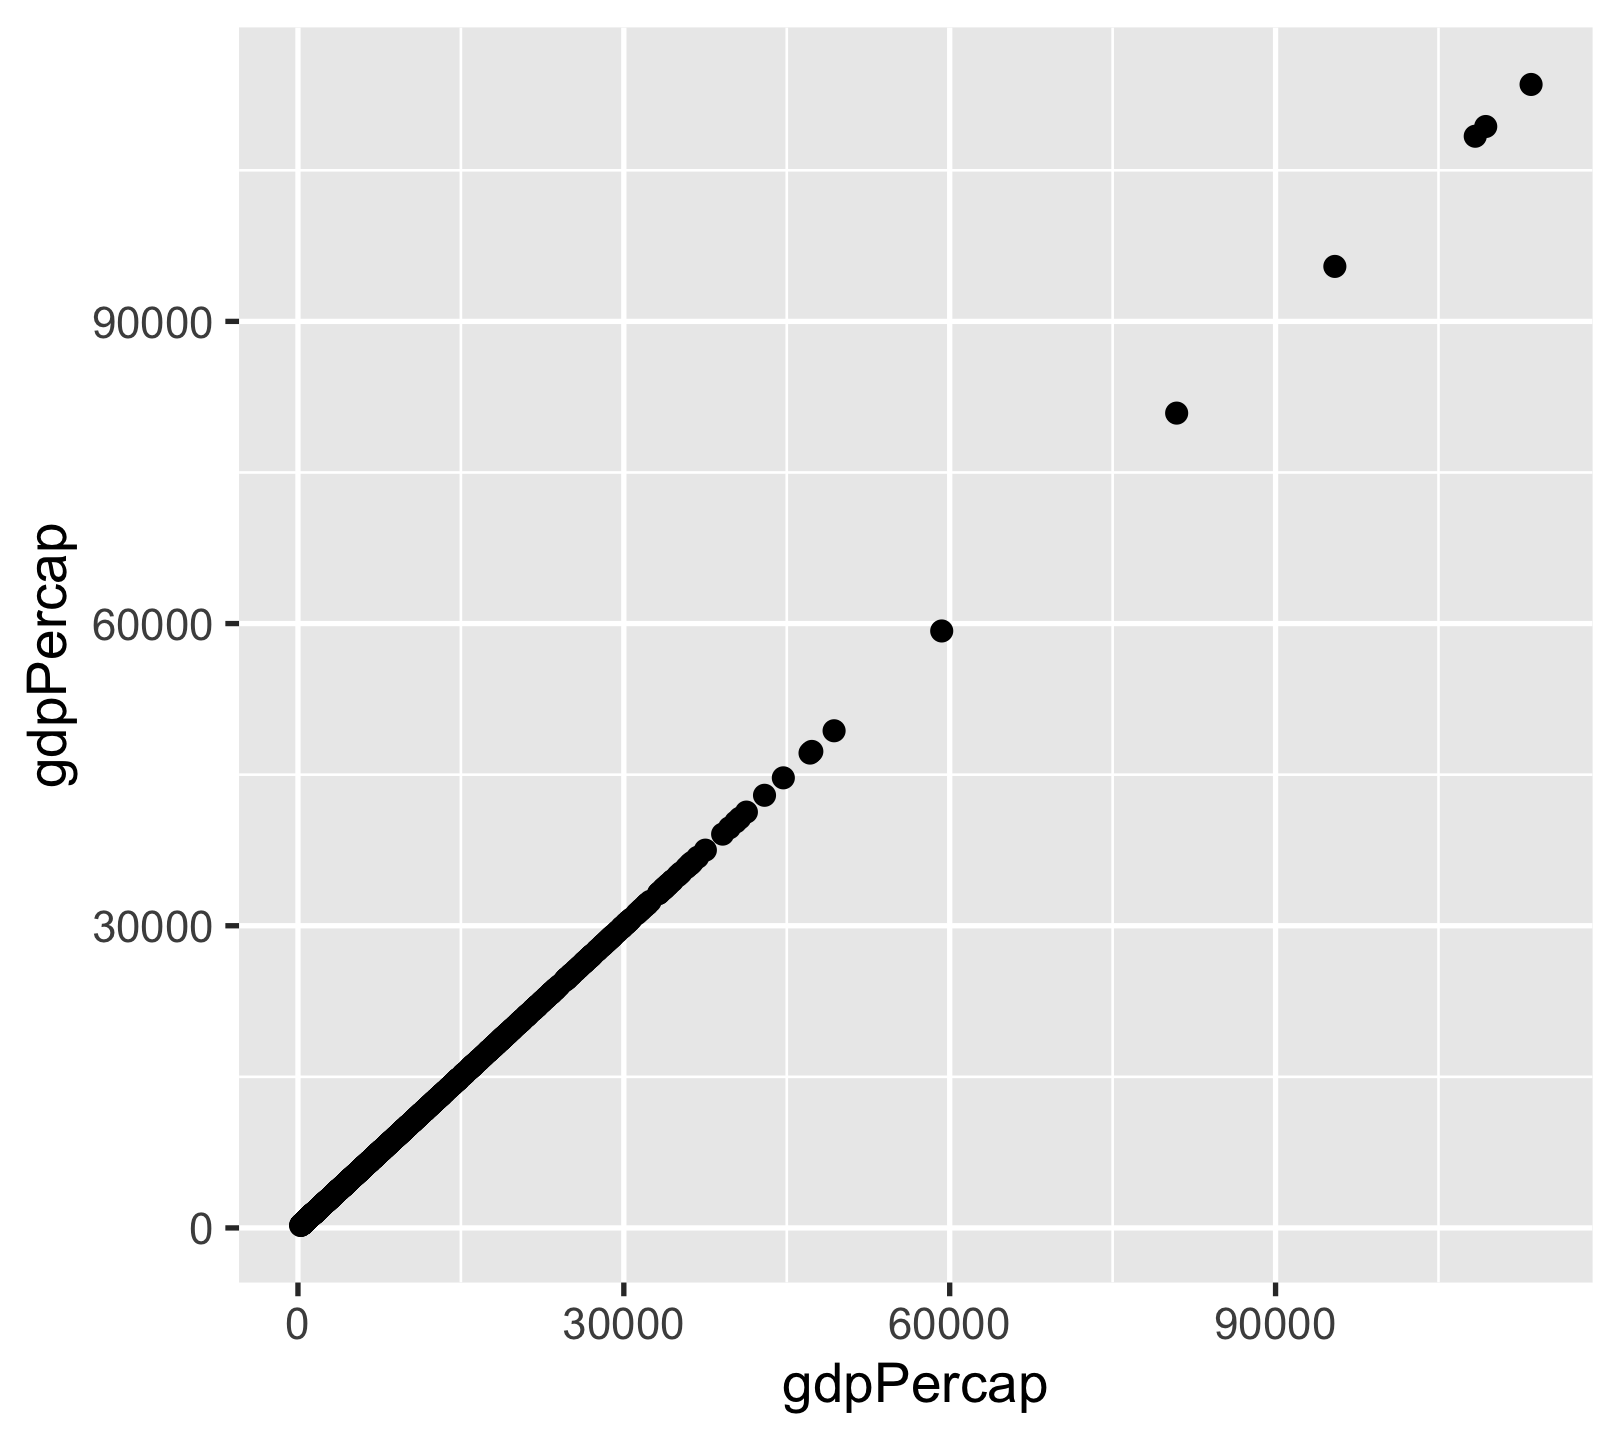
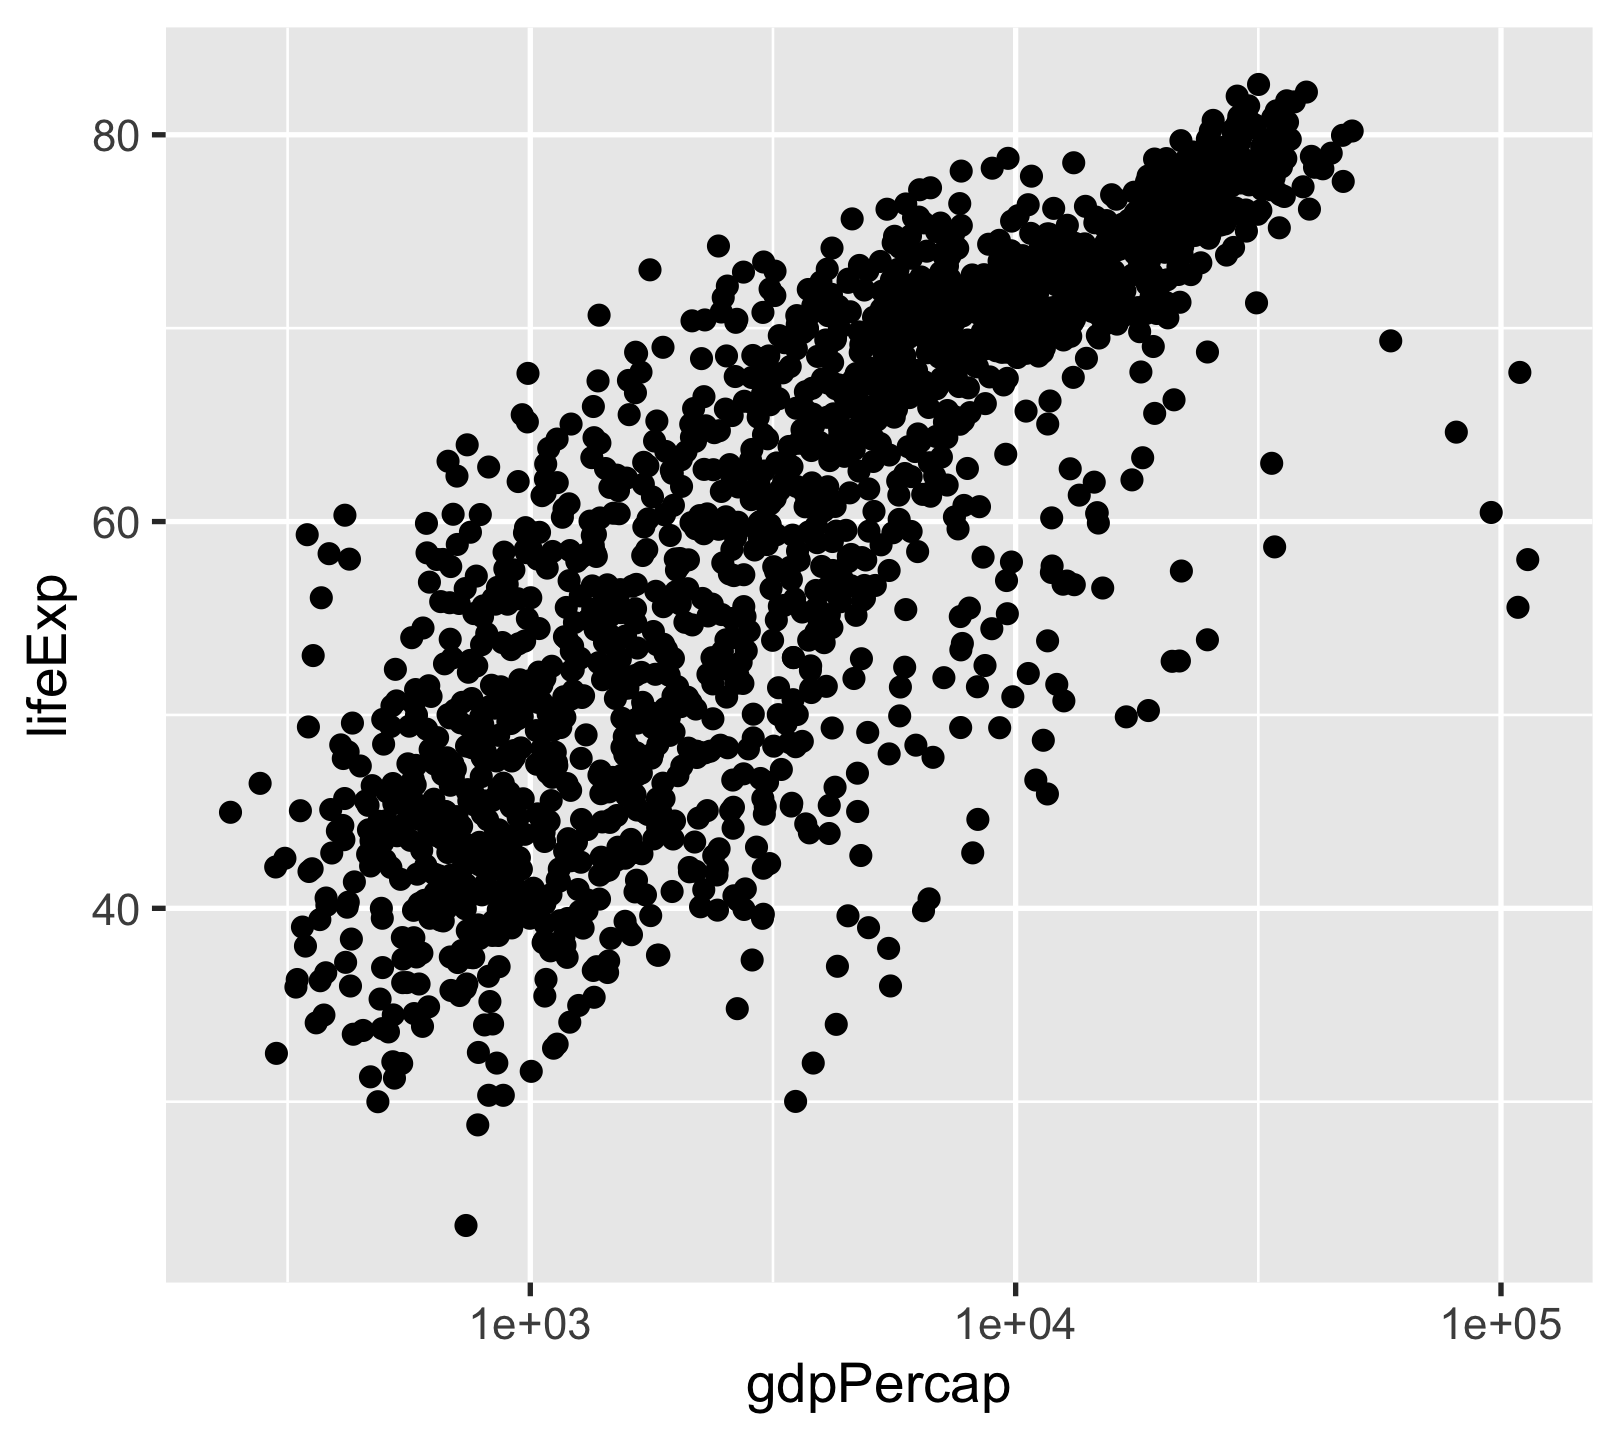
fixed gapminder plot

diff --git a/lectures/08-rmd.html b/lectures/08-rmd.html
@@ -341,8 +341,8 @@ See &lt;http://rmarkdown.rstudio.com&gt;.
 
 ````r
 ```{r scatterplot, fig.align = "center", fig.width = 4.5, fig.height = 4}
-ggplot(gp, aes(gdpPercap, gdpPercap)) +
-  geom_point()
+ggplot(gp, aes(gdpPercap, lifeExp)) +
+  geom_point() + scale_x_log10()
 ```
 ````
 
@@ -354,8 +354,8 @@ ggplot(gp, aes(gdpPercap, gdpPercap)) +
 
 ````r
 ```{r scatterplot, fig.align = "center", fig.width = 4.5, fig.height = 4}
-ggplot(gp, aes(gdpPercap, gdpPercap)) +
-  geom_point()
+ggplot(gp, aes(gdpPercap, lifeExp)) +
+  geom_point() + scale_x_log10()
 ```
 ````
 
@@ -379,8 +379,8 @@ ggplot(gp, aes(gdpPercap, gdpPercap)) +
 
 ````r
 ```{r show-code, ref.label = "scatterplot", eval = FALSE}
-ggplot(gp, aes(gdpPercap, gdpPercap)) +
-  geom_point()
+ggplot(gp, aes(gdpPercap, lifeExp)) +
+  geom_point() + scale_x_log10()
 ```
 ````
 
@@ -413,7 +413,7 @@ thead, tfoot, tr:nth-child(even) { background: #eee; }
 
 ````r
 ```{r lm, echo = FALSE, cache = TRUE}
-fit &lt;- lm(lifeExp ~ gdpPercap, data = gp)
+fit &lt;- lm(lifeExp ~ log10(gdpPercap), data = gp)
 kable(coef(summary(fit)))
 ```
 ````
@@ -431,10 +431,10 @@ kable(coef(summary(fit)))
 &lt;br&gt;
 &lt;br&gt;
 
-|            |   Estimate| Std. Error|   t value| Pr(&gt;&amp;#124;t&amp;#124;)|
-|:-----------|----------:|----------:|---------:|------------------:|
-|(Intercept) | 53.9555609|  0.3149949| 171.29025|                  0|
-|gdpPercap   |  0.0007649|  0.0000258|  29.65766|                  0|
+|                 |  Estimate| Std. Error|   t value| Pr(&gt;&amp;#124;t&amp;#124;)|
+|:----------------|---------:|----------:|---------:|------------------:|
+|(Intercept)      | -9.100889|  1.2276738| -7.413117|                  0|
+|log10(gdpPercap) | 19.353423|  0.3425372| 56.500206|                  0|
 ]
 
 ---
